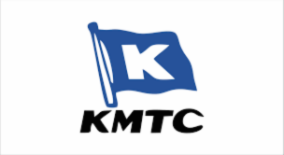
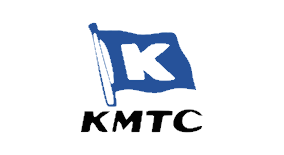
background image added, transparent images edited

diff --git a/stylesheetsCSS/homeStyle.css b/stylesheetsCSS/homeStyle.css
@@ -563,10 +563,6 @@ video {
   right: 0px;
 }
 
-.float-left {
-  float: left;
-}
-
 .mt-10 {
   margin-top: 2.5rem;
 }
@@ -575,92 +571,36 @@ video {
   margin-bottom: 2.5rem;
 }
 
-.mr-2 {
-  margin-right: 0.5rem;
-}
-
-.ml-2 {
-  margin-left: 0.5rem;
-}
-
-.mr-4 {
-  margin-right: 1rem;
+.mr-20 {
+  margin-right: 5rem;
 }
 
 .mr-10 {
   margin-right: 2.5rem;
 }
 
-.mr-20 {
-  margin-right: 5rem;
+.ml-2 {
+  margin-left: 0.5rem;
 }
 
 .mr-5 {
   margin-right: 1.25rem;
 }
 
-.ml-10 {
-  margin-left: 2.5rem;
-}
-
-.ml-20 {
-  margin-left: 5rem;
+.ml-12 {
+  margin-left: 3rem;
 }
 
 .mr-12 {
   margin-right: 3rem;
 }
 
-.ml-12 {
-  margin-left: 3rem;
-}
-
-.mr-40 {
-  margin-right: 10rem;
-}
-
-.ml-28 {
-  margin-left: 7rem;
-}
-
-.mr-32 {
-  margin-right: 8rem;
-}
-
-.mr-14 {
-  margin-right: 3.5rem;
-}
-
-.mr-36 {
-  margin-right: 9rem;
+.mr-24 {
+  margin-right: 6rem;
 }
 
 .mr-28 {
   margin-right: 7rem;
-}
-
-.ml-32 {
-  margin-left: 8rem;
-}
-
-.ml-40 {
-  margin-left: 10rem;
-}
-
-.ml-48 {
-  margin-left: 12rem;
-}
-
-.ml-52 {
-  margin-left: 13rem;
-}
-
-.ml-72 {
-  margin-left: 18rem;
-}
-
-.mr-24 {
-  margin-right: 6rem;
 }
 
 .flex {
@@ -677,10 +617,6 @@ video {
 
 .w-full {
   width: 100%;
-}
-
-.w-60 {
-  width: 15rem;
 }
 
 .w-80 {
@@ -729,47 +665,13 @@ video {
   border-style: solid;
 }
 
-.border-b-zinc-800 {
-  --tw-border-opacity: 1;
-  border-bottom-color: rgb(39 39 42 / var(--tw-border-opacity));
-}
-
-.border-b-amber-800 {
-  --tw-border-opacity: 1;
-  border-bottom-color: rgb(146 64 14 / var(--tw-border-opacity));
-}
-
-.bg-amber-50 {
-  --tw-bg-opacity: 1;
-  background-color: rgb(255 251 235 / var(--tw-bg-opacity));
-}
-
-.bg-cyan-400 {
-  --tw-bg-opacity: 1;
-  background-color: rgb(34 211 238 / var(--tw-bg-opacity));
-}
-
-.bg-cyan-600 {
-  --tw-bg-opacity: 1;
-  background-color: rgb(8 145 178 / var(--tw-bg-opacity));
-}
-
 .bg-cyan-500 {
   --tw-bg-opacity: 1;
   background-color: rgb(6 182 212 / var(--tw-bg-opacity));
 }
 
-.bg-auto {
-  background-size: auto;
-}
-
 .bg-cover {
   background-size: cover;
-}
-
-.object-cover {
-  -o-object-fit: cover;
-     object-fit: cover;
 }
 
 .py-4 {
@@ -785,11 +687,6 @@ video {
 .py-10 {
   padding-top: 2.5rem;
   padding-bottom: 2.5rem;
-}
-
-.px-20 {
-  padding-left: 5rem;
-  padding-right: 5rem;
 }
 
 .py-20 {
@@ -814,11 +711,6 @@ video {
 .hover\:bg-blue-400:hover {
   --tw-bg-opacity: 1;
   background-color: rgb(96 165 250 / var(--tw-bg-opacity));
-}
-
-.dark .dark\:bg-tb {
-  --tw-bg-opacity: 1;
-  background-color: rgb(0 0 0 / var(--tw-bg-opacity));
 }
 
 @media (min-width: 768px) {

diff --git a/index.html b/index.html
@@ -13,9 +13,10 @@
 </head>
 
 <body class= "body-font font-Fjalla">
-  <div class= "">
-    <header id="title" class="bg-cover px-84 py-4 mt-10 h-60px flex flex-row justify-between 
-    bg-cyan-500 border border-solid text-6xl">
+  
+  <div class= "w-full h-full bg-no-repeat bg-cover bg-fixed" style="background-image: url('https://cdn.pixabay.com/photo/2021/09/16/21/27/container-ship-6631117_960_720.jpg');">
+    <header id="title" class="py-10 flex flex-row justify-between 
+     border-solid text-6xl">
     <p class="w-full flex justify-center">Ocean Carrier Freight Link Tracking Application</p>
       <aside class="hover:bg-blue-400 cursor-pointer">
             <a href="../help-page-html/helpPageOne.html"
@@ -37,7 +38,7 @@
         </nav>
         <nav class="ml-2 h-full w-100">
           <a href="https://elines.coscoshipping.com/ebusiness/cargotracking">
-            <img class="carrier-images" src="images\cosco.jpg" alt="cosco">
+            <img class="carrier-images" src="images\cosco.png" alt="cosco">
           </a>
         </nav>
       </section>
@@ -64,7 +65,7 @@
       <section class="flex justify-center items-center mt-10 mb-10 px-10 py-10">
         <nav class="mr-20 h-full w-80">
           <a href="https://ct.shipmentlink.com/servlet/TDB1_CargoTracking.do">
-            <img class="carrier-images" src="images\evergreen.jpg" alt="Evergreen">
+            <img class="carrier-images" src="images\evergreen.png" alt="Evergreen">
           </a>
         </nav>
         <nav class="mr-20 h-full w-90">
@@ -74,15 +75,15 @@
         </nav>
         <nav class="ml-17 h-full w-80">
           <a href="https://www.hmm21.com/cms/company/engn/index.jsp">
-            <img class="carrier-images" src="images\Hmm.jpg" alt="HMM">
+            <img class="carrier-images" src="images\Hmm.png" alt="HMM">
           </a>
         </nav>
       </section>
 
-      <section class="flex justify-center items-center mt-10 mb-10 space-x-10 px-10 py-10">
+      <section class="flex justify-center items-center mt-10 space-x-10 px-10 py-10">
         <nav class="mr-24 w-100 h-full">
           <a href="https://www.wanhai.com/views/Main.xhtml">
-            <img class="space-x-60px" src="images\wanhai.jpg" alt="WanHai">
+            <img class="space-x-60px" src="images\wanhai.png" alt="WanHai">
           </a>
         </nav>
         <nav class="mr-28 w-100 h-full">
